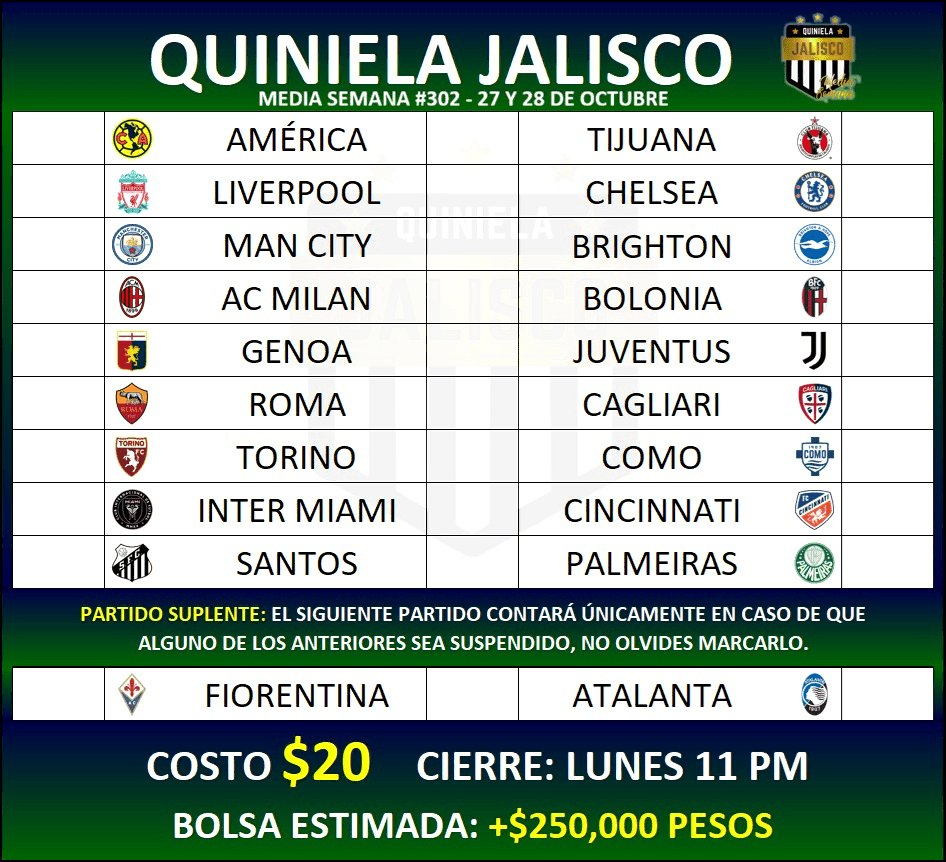
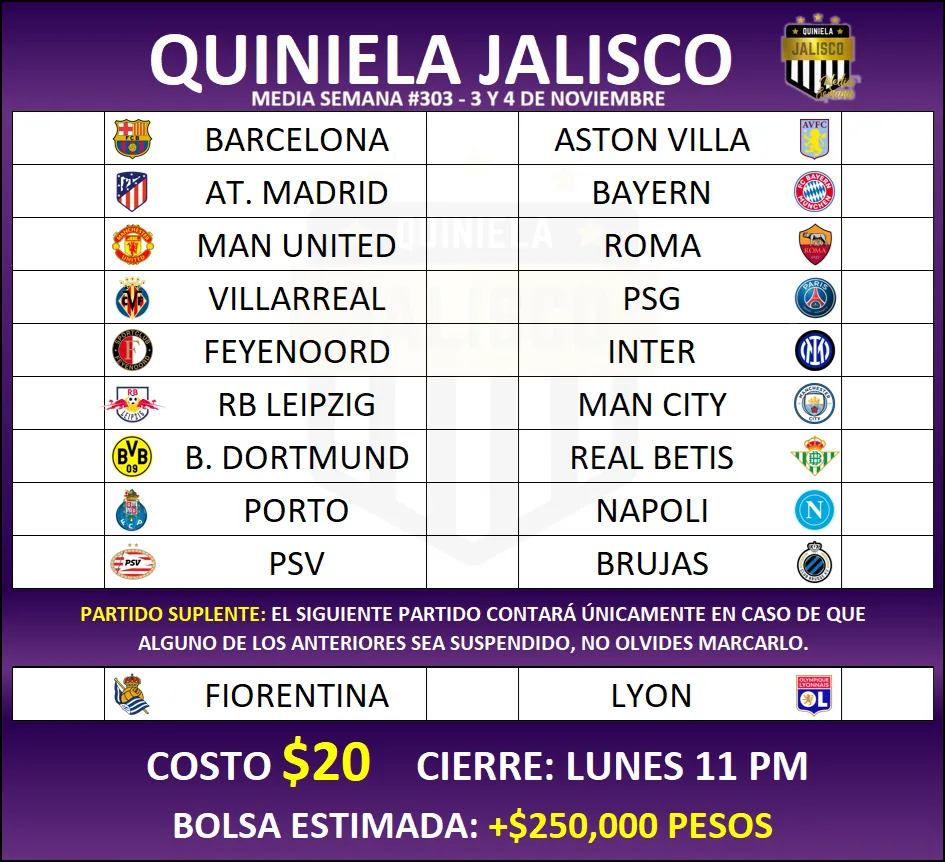
Media Semana #303

diff --git a/media.html b/media.html
@@ -11,19 +11,19 @@
     <link href="https://fonts.googleapis.com/css2?family=Carlito:wght@700&family=Roboto&display=swap" rel="stylesheet" media="print" onload="this.media='all'">
     <noscript><link href="https://fonts.googleapis.com/css2?family=Carlito:wght@700&family=Roboto&display=swap" rel="stylesheet"></noscript>
     <link rel="stylesheet" href="vendor/bootstrap.min.css">
-    <link rel="stylesheet" href="MediaSemana/stylesmSusp.css?v=1.0.14">
+    <link rel="stylesheet" href="MediaSemana/stylesmSusp.css?v=1.0.17">
     <link rel="stylesheet" href="pagos.css?v=1.0.5">
     <link rel="icon" href="MediaSemana/iconm.jpg">
     <link rel="apple-touch-icon" href="MediaSemana/iconm.jpg">
     <link rel="shortcut icon" href="MediaSemana/iconm.jpg" type="image/x-icon">
     <!-- Sentry: reporte de errores. async (no defer) = si su CDN se cuelga no frena a los scripts defer de abajo -->
     <script src="https://js.sentry-cdn.com/dd4a3e2df576b29604a973a4602b5948.min.js" crossorigin="anonymous" async></script>
-    <script src="whatsapp-utils.js?v=1.0.2" defer></script>
+    <script src="whatsapp-utils.js?v=1.0.3" defer></script>
     <script src="banda.js?v=1.0.0" defer></script>
-    <script src="MediaSemana/mainm.js?v=1.0.14" defer></script>
+    <script src="MediaSemana/mainm.js?v=1.0.15" defer></script>
     <script src="var.js?v=1.0.8" defer></script>
     <script src="pagos.js?v=1.0.0" defer></script>
-    <script src="halloween.js?v=1.1.8" defer></script>
+    <!-- <script src="halloween.js?v=1.1.8" defer></script> -->
     <!-- <script src='./snow.js' defer></script> -->
 </head>
 

diff --git a/MediaSemana/stylesmSusp.css b/MediaSemana/stylesmSusp.css
@@ -9,7 +9,7 @@ body{
     max-width: 400px;
     margin: auto;
     background-color: rgb(6,12,37);
-    background-image: url("../bg/fondom8.jpg");
+    background-image: url("../bg/fondom8-naranja.jpg");
     background-repeat: repeat-y;
     background-position: top;
 }
@@ -103,8 +103,8 @@ body{
     margin-top: 9%;
     border: solid 1px black;
     border-radius: 0 0 14px 14px;
-    background-image: -webkit-linear-gradient(90deg, rgb(0,0,68), rgb(0,62,26));
-    background-image: linear-gradient(0deg, rgb(0,0,68), rgb(0,62,26));
+    background-image: -webkit-linear-gradient(90deg, rgb(0, 0, 68), rgb(87 38 119));
+    background-image: linear-gradient(0deg, rgb(0, 0, 68), rgb(87 38 119));
 }
 
 /* Franja de costo y cierre: tapa ese renglón de la imagen con su mismo degradado */
@@ -112,8 +112,8 @@ body{
     display: block;
     width: 100%;
     height: 9vw;
-    background-image: -webkit-linear-gradient(-90deg, rgb(0,0,68), rgb(0,62,26));
-    background-image: linear-gradient(180deg, rgb(0,0,68), rgb(0,62,26));
+    background-image: -webkit-linear-gradient(-90deg, rgb(0, 0, 68), rgb(92 40 122));
+    background-image: linear-gradient(180deg, rgb(0, 0, 68), rgb(92 40 122));
 }
 
 /* Con la franja, #text va pegado a ella (sin la franja, p. ej. un HTML de antes, se queda el margen de siempre) */

diff --git a/whatsapp-utils.js b/whatsapp-utils.js
@@ -35,12 +35,7 @@ function whatsAppUrl(phone, message, userAgent) {
 
 // Abre WhatsApp; en WebViews de Android, si la app no tomó el control, cae a wa.me
 function openWhatsApp(phone, message) {
-    if (isSendBlocked()) {
-        if (sendBlockFrom === sendBlockTo) alert("La quiniela está cerrada.\r\nEspera la próxima jornada.");
-        else alert("El registro virtual se encuentra en mantenimiento de " + formatHour(sendBlockFrom) + " a " + formatHour(sendBlockTo) + " (hora de México).");
-        updateSendButton();
-        return;
-    }
+    if (alertSendBlocked()) return;
     var ua = navigator.userAgent;
     window.location.href = whatsAppUrl(phone, message, ua);
     if (isAndroidInApp(ua)) {
@@ -85,6 +80,14 @@ function isSendBlocked() {
     } catch (e) {
         return false;
     }
+}
+
+function alertSendBlocked() {
+    if (!isSendBlocked()) return false;
+    if (sendBlockFrom === sendBlockTo) alert("La quiniela está cerrada.\r\nEspera la próxima jornada.");
+    else alert("El registro virtual se encuentra en mantenimiento de " + formatHour(sendBlockFrom) + " a " + formatHour(sendBlockTo) + " (hora de México).");
+    updateSendButton();
+    return true;
 }
 
 function formatHour(h) {

diff --git a/index.html b/index.html
@@ -18,9 +18,9 @@
     <link rel="shortcut icon" href="icon.jpg" type="image/x-icon">
     <!-- Sentry: reporte de errores. async (no defer) = si su CDN se cuelga no frena a los scripts defer de abajo -->
     <script src="https://js.sentry-cdn.com/dd4a3e2df576b29604a973a4602b5948.min.js" crossorigin="anonymous" async></script>
-    <script src="whatsapp-utils.js?v=1.0.2" defer></script>
+    <script src="whatsapp-utils.js?v=1.0.3" defer></script>
     <script src="banda.js?v=1.0.0" defer></script>
-    <script src="11/main11.js?v=1.0.12" defer></script>
+    <script src="11/main11.js?v=1.0.13" defer></script>
     <script src="var.js?v=1.0.8" defer></script>
     <script src="pagos.js?v=1.0.0" defer></script>
     <script src="halloween.js?v=1.1.8" defer></script>

diff --git a/11/main11.js b/11/main11.js
@@ -353,6 +353,7 @@ function deleteall(){
 }
 
 function send(){                //Envia la quiniela al whatsapp
+    if (typeof alertSendBlocked === "function" && alertSendBlocked()) return;
     var entries = renderList();     //Se relee lo guardado para enviar exactamente lo que se ve
     if (quantity < 1){
         alert("La lista está vacía\r\nPresiona [AGREGAR] para añadir una quiniela");

diff --git a/MediaSemana/mainm.js b/MediaSemana/mainm.js
@@ -353,6 +353,7 @@ function deleteall(){
 }
 
 function send(){                //Envia la quiniela al whatsapp
+    if (typeof alertSendBlocked === "function" && alertSendBlocked()) return;
     var entries = renderList();     //Se relee lo guardado para enviar exactamente lo que se ve
     if (quantity < 1){
         alert("La lista está vacía\r\nPresiona [AGREGAR] para añadir una quiniela");
